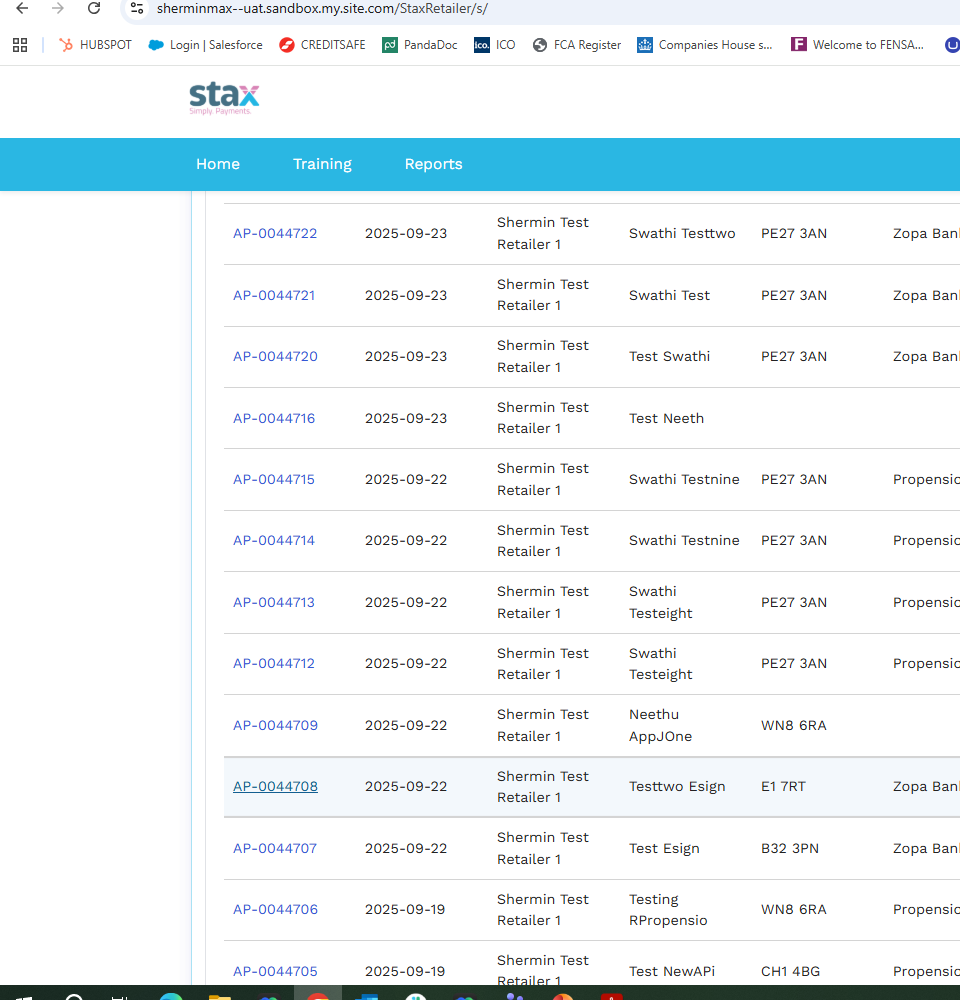
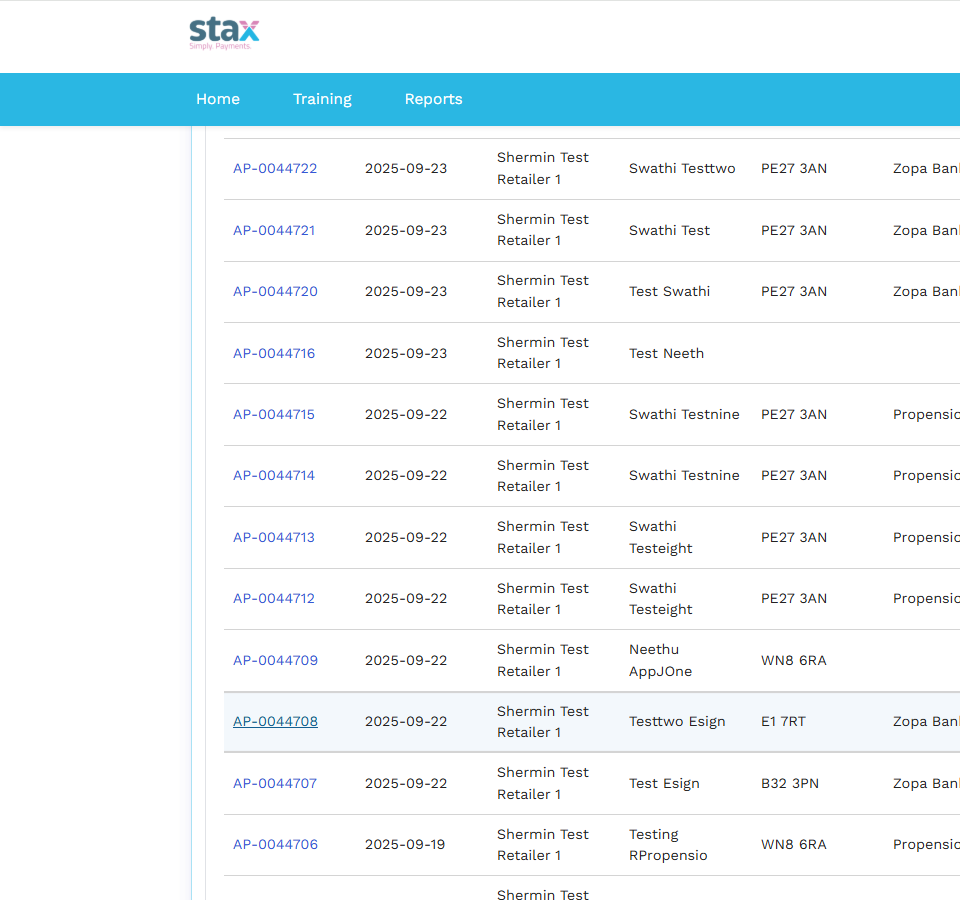
Final quality pass: fix remaining screenshot chrome and content issues
- Re-crop all amendment screenshots to remove screen recording toolbar
- Re-crop welcome email screenshot to show just the email reading pane
- Fix Minimum Lender Criteria callout: correctly references THIS Bank
  and Propensio for age 21 (was incorrectly saying ZOPA)
- Fix Loom URL typo for Microsoft Edge video (of -> 0f)

diff --git a/src/components/sections/SectionMinimumLenderCriteria.tsx b/src/components/sections/SectionMinimumLenderCriteria.tsx
@@ -49,11 +49,13 @@ function SectionMinimumLenderCriteria() {
 
       <Callout variant="important">
         <p>
-          <strong>Key difference:</strong> HUMM is the only lender that accepts
+          <strong>Key differences:</strong> HUMM is the only lender that accepts
           both <strong>Homeowners</strong> and <strong>Tenants</strong>. All
-          other lenders require the applicant to be a homeowner. ZOPA requires a
-          minimum age of <strong>21</strong>, while all other lenders accept
-          applicants from age <strong>18</strong>.
+          other lenders require the applicant to be a homeowner. THIS Bank and
+          Propensio require a minimum age of <strong>21</strong>, while all other
+          lenders accept applicants from age <strong>18</strong>. ZOPA does not
+          allow installation at another address. Only BNP Paribas and V12
+          support loan amendments on STAX.
         </p>
       </Callout>
 

diff --git a/src/components/sections/SectionClearingBrowsingData.tsx b/src/components/sections/SectionClearingBrowsingData.tsx
@@ -15,7 +15,7 @@ const fadeUp = {
 
 const videoGuides = [
   { title: 'Google Chrome', url: 'https://www.loom.com/share/ef242050f99746e399d0db687cf0c10b' },
-  { title: 'Microsoft Edge', url: 'https://www.loom.com/share/47af1079918341458of793c077ed3261' },
+  { title: 'Microsoft Edge', url: 'https://www.loom.com/share/47af10799183414580f793c077ed3261' },
   { title: 'Safari on iPhone', url: 'https://www.loom.com/share/0d51135a573242459edfddec6d6f6da2' },
   { title: 'Safari on iPad', url: 'https://www.loom.com/share/159c40c7e5fa42959b87080e4ca8bf0c' },
 ];
